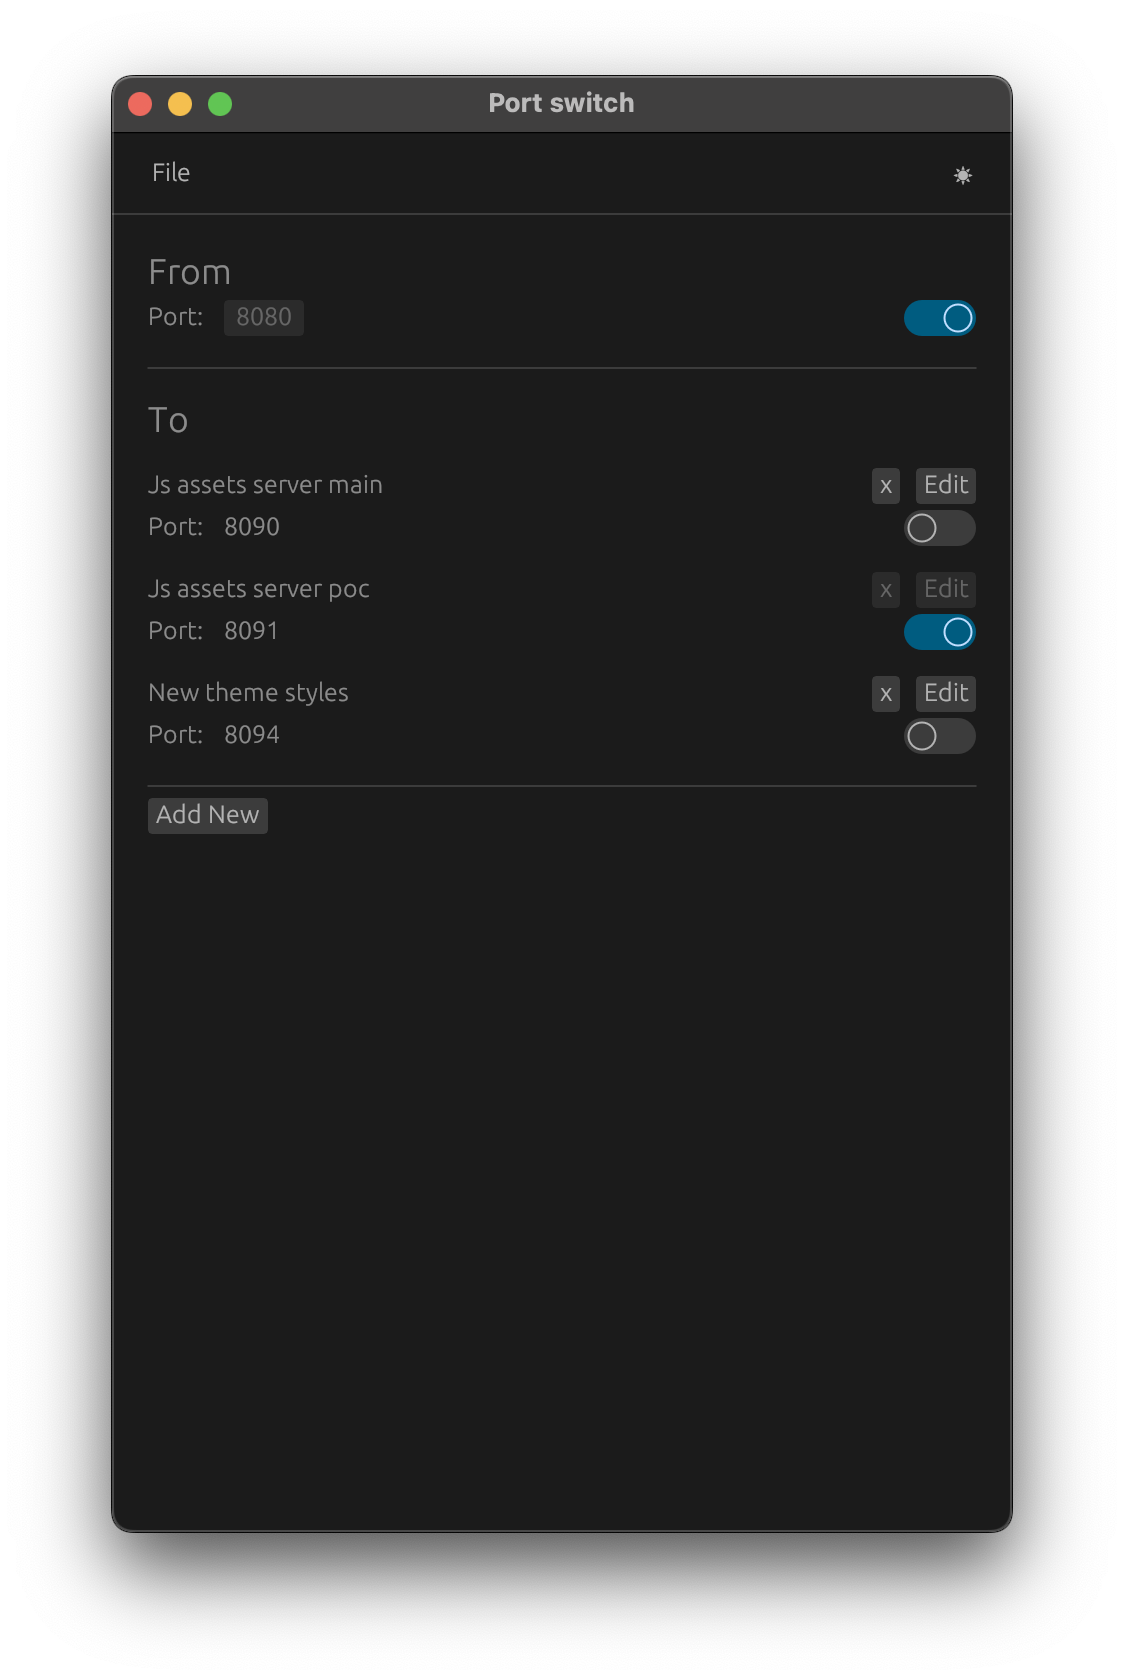
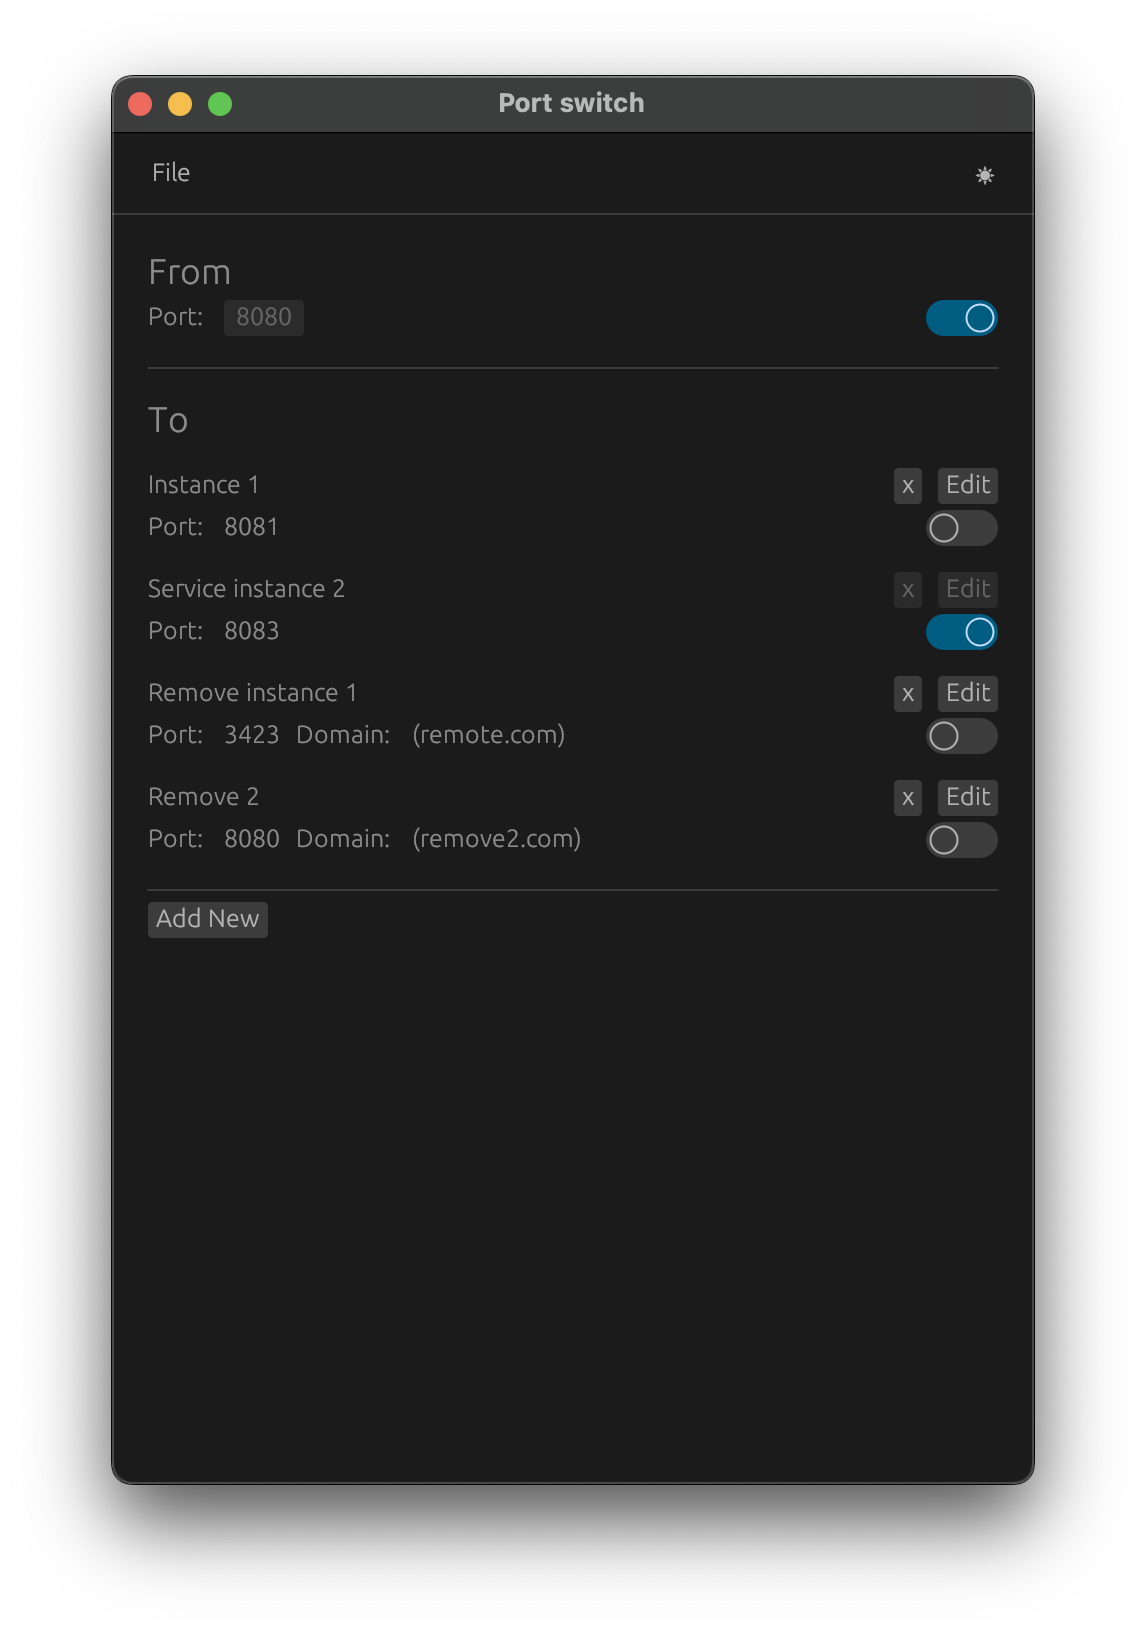
Add remote Forward impl

diff --git a/crates/dynamic_tcp_proxy/src/lib.rs b/crates/dynamic_tcp_proxy/src/lib.rs
@@ -12,23 +12,23 @@ use tokio::sync::mpsc::{self, Sender};
 use lazy_static::lazy_static;
 use proxy_handler::create_proxy;
 
-pub use config::ProxyConfig;
+pub use config::{ForwardTarget, ProxyConfig};
 use tokio::task::JoinHandle as TokioJoinHandle;
 
 lazy_static! {
-    static ref TARGET_PORT: Arc<Mutex<Option<u16>>> = Arc::new(Mutex::new(Default::default()));
+    static ref TARGET_PORT: Arc<Mutex<Option<ForwardTarget>>> =
+        Arc::new(Mutex::new(Default::default()));
 }
 
-fn get_target_port() -> u16 {
+fn get_target() -> ForwardTarget {
     let read_guard = TARGET_PORT.lock().expect("Cannot lock target port mutex");
-    read_guard.unwrap()
+    read_guard.clone().unwrap()
 }
 
-fn set_target_port(target_port: u16) {
+fn set_target(target: ForwardTarget) {
     let mut write_guard = TARGET_PORT.lock().expect("Cannot lock target port mutex");
-    *write_guard = Some(target_port);
+    *write_guard = Some(target);
 }
-
 
 pub struct DynamicProxy(StdSender<ProxyConfig>);
 
@@ -42,7 +42,10 @@ impl DynamicProxy {
         Ok((Self(update_tx), handle))
     }
 
-    pub fn update(&self, config: ProxyConfig) -> Result<(), std::sync::mpsc::SendError<ProxyConfig>> {
+    pub fn update(
+        &self,
+        config: ProxyConfig,
+    ) -> Result<(), std::sync::mpsc::SendError<ProxyConfig>> {
         self.0.send(config)
     }
 }
@@ -53,7 +56,7 @@ fn initiate_update_observer(update_rx: StdReceiver<ProxyConfig>) {
 
     let runtime = Runtime::new().unwrap();
     while let Ok(config) = update_rx.recv() {
-        if config.off() && running_proxy_thread.is_some() {
+        if config.is_off() && running_proxy_thread.is_some() {
             let curr_shudown_tx = proxy_kill_tx.clone();
             runtime.block_on(async move {
                 let kill_tx =
@@ -62,11 +65,11 @@ fn initiate_update_observer(update_rx: StdReceiver<ProxyConfig>) {
             });
 
             running_proxy_thread = None;
-        } else if config.on() {
+        } else if config.is_on() {
             let forward_port = config
                 .forward_port()
                 .expect("Listening port not set before starting server");
-            set_target_port(forward_port);
+            set_target(forward_port);
 
             if running_proxy_thread.is_none() {
                 let listen_port = config

diff --git a/crates/dynamic_tcp_proxy/src/config.rs b/crates/dynamic_tcp_proxy/src/config.rs
@@ -1,12 +1,35 @@
+use serde::{Deserialize, Serialize};
+
 #[derive(Default, Debug)]
-pub struct ProxyConfig(pub Option<(u16, u16)>);
+pub struct ProxyConfig(pub Option<(u16, ForwardTarget)>);
+
+#[derive(Debug, PartialEq, Clone, Deserialize, Serialize)]
+pub struct ForwardTarget {
+    pub domain: String,
+    pub port: u16,
+}
+
+impl Default for ForwardTarget {
+    fn default() -> Self {
+        Self {
+            domain: "localhost".to_owned(),
+            port: 0,
+        }
+    }
+}
+
+impl ForwardTarget {
+    pub fn is_external(&self) -> bool {
+        self.domain != "localhost"
+    }
+}
 
 impl ProxyConfig {
-    pub fn off(&self) -> bool {
+    pub fn is_off(&self) -> bool {
         self.0.is_none()
     }
 
-    pub fn on(&self) -> bool {
+    pub fn is_on(&self) -> bool {
         self.0.is_some()
     }
 
@@ -16,16 +39,18 @@ impl ProxyConfig {
         }
         None
     }
-    pub fn forward_port(&self) -> Option<u16> {
-        if let Some((_, forward_port)) = self.0 {
-            return Some(forward_port);
+    pub fn forward_port(&self) -> Option<ForwardTarget> {
+        if let Some((_, forward_port)) = &self.0 {
+            return Some(forward_port.clone());
         }
         None
     }
 
     pub fn validate(&self) -> Result<(), String> {
         match (self.forward_port(), self.listen_port()) {
-            (Some(fp), Some(lp)) if fp == lp => Err("Cannot forward to listening port".to_owned()),
+            (Some(fp), Some(lp)) if fp.domain == "localhost" && fp.port == lp => {
+                Err("Cannot forward to listening port".to_owned())
+            }
             _ => Ok(()),
         }
     }

diff --git a/crates/port_switch/src/app/list.rs b/crates/port_switch/src/app/list.rs
@@ -19,10 +19,8 @@ impl App {
                     });
                     ui.with_layout(egui::Layout::right_to_left(Align::Center), |ui| {
                         egui::widgets::global_dark_light_mode_switch(ui);
-                        if cfg!(debug_assertions) {
-                            if ui.button("Reset").clicked() {
-                                *self = App::init_state();
-                            }
+                        if cfg!(debug_assertions) && ui.button("Reset").clicked() {
+                            *self = App::init_state();
                         }
                     });
                 })
@@ -86,7 +84,11 @@ impl App {
                     });
                     ui.horizontal(|ui| {
                         ui.label("Port: ");
-                        ui.label(format!("{}", forward_port.port));
+                        ui.label(format!("{}", forward_port.target.port));
+                        if forward_port.target.is_external() {
+                            ui.label("Domain: ");
+                            ui.label(format!("({})", forward_port.target.domain));
+                        }
 
                         ui.with_layout(egui::Layout::right_to_left(Align::Center), |ui| {
                             let is_already_active = is_active;

diff --git a/crates/port_switch/src/app/mod.rs b/crates/port_switch/src/app/mod.rs
@@ -1,4 +1,4 @@
-use dynamic_tcp_proxy::{DynamicProxy, ProxyConfig};
+use dynamic_tcp_proxy::{DynamicProxy, ForwardTarget, ProxyConfig};
 use eframe::egui;
 
 mod create;
@@ -6,7 +6,7 @@ mod list;
 
 #[derive(serde::Deserialize, serde::Serialize, Debug, Clone)]
 struct ForwardPort {
-    port: u16,
+    target: ForwardTarget,
     name: String,
     #[serde(skip)]
     error: Option<String>,
@@ -14,14 +14,17 @@ struct ForwardPort {
 
 impl PartialEq for ForwardPort {
     fn eq(&self, other: &Self) -> bool {
-        self.port == other.port
+        self.target == other.target
     }
 }
 
 impl Default for ForwardPort {
     fn default() -> Self {
         Self {
-            port: 8080,
+            target: ForwardTarget {
+                port: 8080,
+                ..Default::default()
+            },
             name: "New Port".to_owned(),
             error: None,
         }
@@ -77,7 +80,7 @@ impl App {
         if self.is_enabled && self.active_forward_port.is_some() {
             let listen_port = self.listen_port;
             if let Some(fp) = &self.active_forward_port {
-                let forward_port = fp.port;
+                let forward_port = fp.target.clone();
                 conf = ProxyConfig(Some((listen_port, forward_port)));
             }
         }

diff --git a/crates/dynamic_tcp_proxy/src/proxy_handler.rs b/crates/dynamic_tcp_proxy/src/proxy_handler.rs
@@ -1,8 +1,10 @@
-use std::net::SocketAddr;
+use std::net::{SocketAddr, ToSocketAddrs};
 use tokio::net::{TcpListener, TcpStream};
 use tokio::runtime::Runtime;
 use tokio::sync::mpsc::Receiver;
 use tokio::task::JoinHandle;
+
+use crate::config::ForwardTarget;
 
 pub(super) fn create_proxy(
     runtime: &Runtime,
@@ -17,8 +19,14 @@ pub(super) fn create_proxy(
         let kill_signal = create_kill_signal(kill_rx);
         let mut kill_signal = std::pin::pin!(kill_signal);
 
-        let target_port = super::get_target_port();
-        let forward_addr = SocketAddr::from(([127, 0, 0, 1], target_port));
+        let ForwardTarget{ domain, port } = super::get_target();
+
+        let target_socket = format!("{domain}:{port}");
+
+        let mut forward_addr = target_socket.to_socket_addrs().expect("Invalid domain")
+            .next()
+            .expect("No address found");
+        forward_addr.set_port(port);
 
         loop {
             tokio::select! {

diff --git a/crates/port_switch/src/app/create.rs b/crates/port_switch/src/app/create.rs
@@ -33,8 +33,13 @@ impl App {
                         ui.label("Name: ");
                         ui.text_edit_singleline(&mut editing_port.name);
                         ui.end_row();
+                        ui.label("Domain: ");
+                        ui.text_edit_singleline(&mut editing_port.target.domain);
+                        ui.end_row();
                         ui.label("Port: ");
-                        ui.add(egui::DragValue::new(&mut editing_port.port).range(0..=65535));
+                        ui.add(
+                            egui::DragValue::new(&mut editing_port.target.port).range(0..=65535),
+                        );
                         ui.end_row();
 
                         if let Some(err_msg) = &editing_port.error {

diff --git a/crates/port_switch/src/main.rs b/crates/port_switch/src/main.rs
@@ -10,8 +10,8 @@ fn main() -> Result<(), eframe::Error> {
         ..Default::default()
     };
 
-    let (proxy_handle, handle) = DynamicProxy::initiate()
-        .map_err(|err| eframe::Error::AppCreation(Box::new(err)))?;
+    let (proxy_handle, handle) =
+        DynamicProxy::initiate().map_err(|err| eframe::Error::AppCreation(Box::new(err)))?;
 
     eframe::run_native(
         "Port switch",

diff --git a/crates/port_switch/src/widgets/toggle.rs b/crates/port_switch/src/widgets/toggle.rs
@@ -8,7 +8,7 @@ impl<'a> Toggle<'a> {
     }
 }
 
-impl<'a> egui::Widget for Toggle<'a> {
+impl egui::Widget for Toggle<'_> {
     fn ui(self, ui: &mut egui::Ui) -> egui::Response {
         let desired_size = ui.spacing().interact_size.y * egui::vec2(2.0, 1.0);
         let (rect, mut response) = ui.allocate_exact_size(desired_size, egui::Sense::click());
